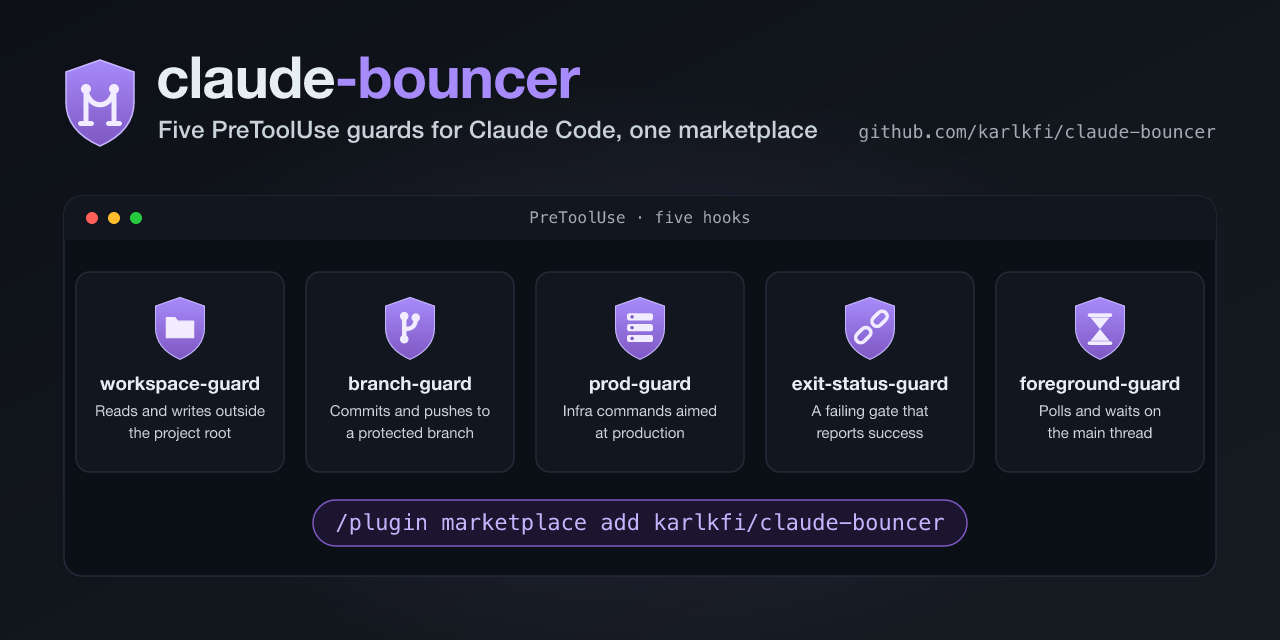
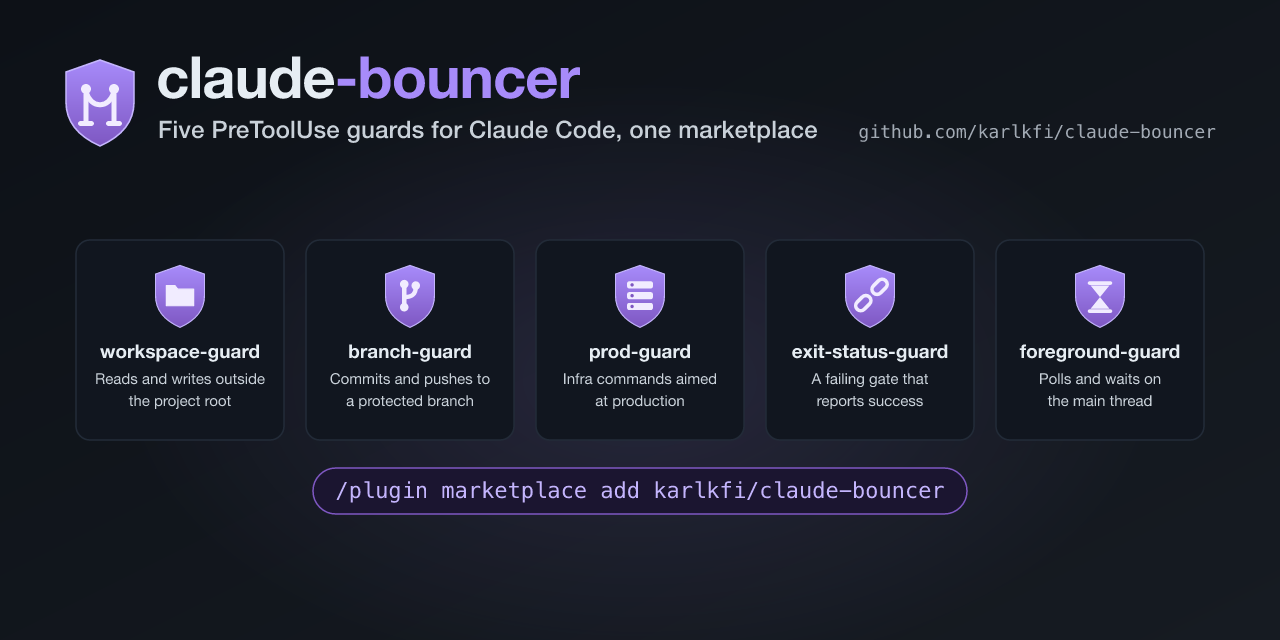
fix(images): drop the terminal chrome from the repo social preview (#16)
The window container promised a terminal and the panel held a card grid.
Every sibling preview frames its content that way because every sibling
shows shell commands; this one shows a catalogue of five plugins and an
install line, so the traffic lights and the `PreToolUse` title bar were
decoration standing in for content that was never there.

The cards are the only containers now. Keeping the panel and dropping
just the title bar was tried and is worse: a plain box around five boxes
adds a nesting level and no information. The card block and the install
pill move up 32px to close the gap the title bar had filled.

Also recorded in the doc: a rebase or checkout rewrites mtimes, so the
staleness check can rebuild a raster whose master never changed. Under
one resvg version that rebuild is byte-identical and `git status` stays
quiet, which is why the doc points at git rather than at the timestamps.

diff --git a/docs/development/rendering-images.md b/docs/development/rendering-images.md
@@ -102,6 +102,11 @@ regardless, and is the only way to pick up a resvg upgrade. `git status` after a
 render is still the check: a raster whose master you did not touch should not
 appear in it.
 
+That check is what catches the one case the timestamps get wrong. A rebase or a
+checkout rewrites mtimes, so masters can come out newer than their rasters and
+the next run rebuilds them. The rebuild is harmless under one resvg version,
+because the output is byte-identical and `git status` stays quiet.
+
 ## Authoring gotchas
 
 These bite when editing the masters:
